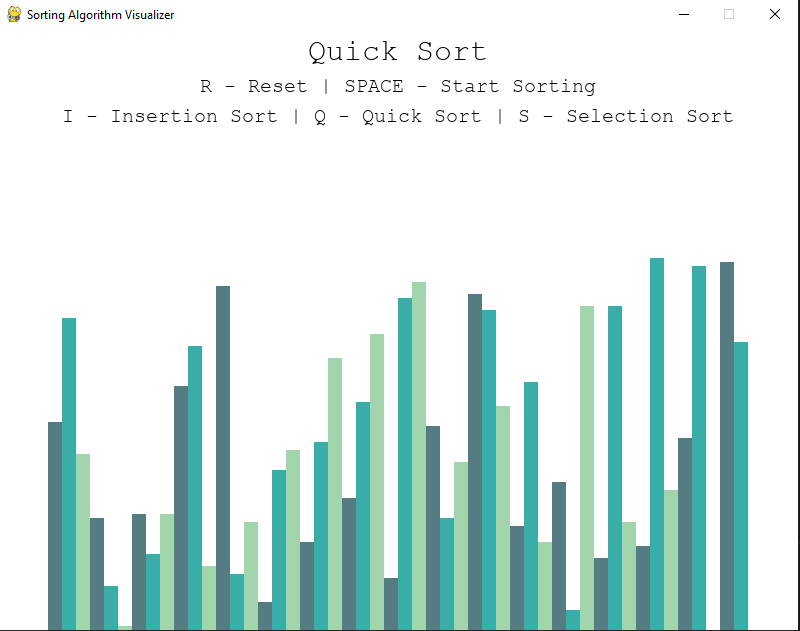
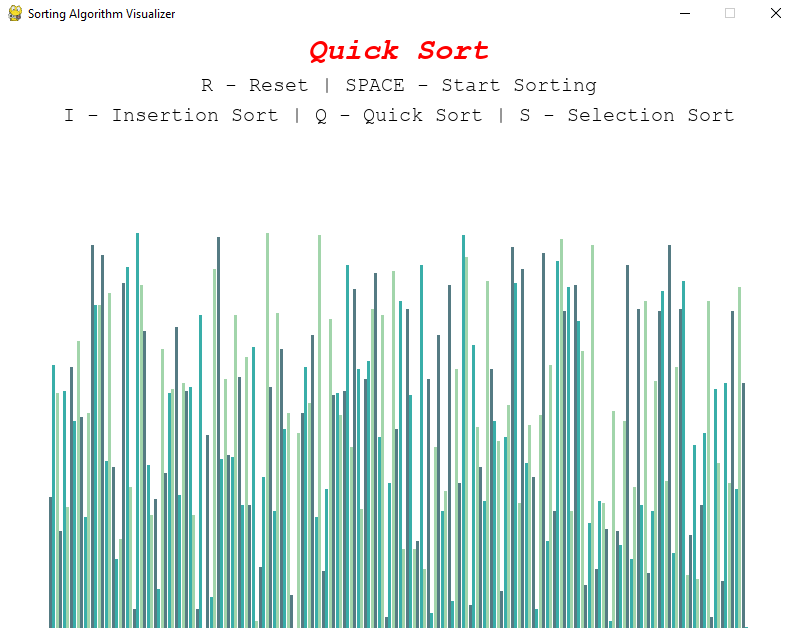
updated visuals

diff --git a/main.py b/main.py
@@ -12,6 +12,7 @@ class DrawInformation:
     WHITE = 255, 255, 255
     GREEN = 0, 255, 0
     RED = 255, 0, 0
+    
     BACKGROUND_COLOR = WHITE
 
     #to be used in drawing bars
@@ -22,7 +23,7 @@ class DrawInformation:
     ]
 
     FONT = pygame.font.SysFont('courier', 20)
-    LARGE_FONT = pygame.font.SysFont('courier', 30)
+    LARGE_FONT = pygame.font.SysFont('courier', 30,True,True)
     SIDE_PAD = 100 #100 pixels in total as padding 
     TOP_PAD = 150 #top padding
 
@@ -60,7 +61,7 @@ class DrawInformation:
 def draw(draw_info, algo_name):
     draw_info.window.fill(draw_info.BACKGROUND_COLOR)
 
-    title = draw_info.LARGE_FONT.render(f"{algo_name}", 1, draw_info.BLACK)
+    title = draw_info.LARGE_FONT.render(f"{algo_name}", 1, draw_info.RED)
     draw_info.window.blit(title, (draw_info.width/2-title.get_width()/2, 5))
 
 
@@ -122,7 +123,7 @@ def partition(arr,l,h,draw_info):
             i = i+1
             arr[i],arr[j] = arr[j],arr[i]
             draw_list(draw_info,{arr[i]:draw_info.GREEN,arr[j]:draw_info.RED}, True)
-            pygame.event.wait(15)
+            pygame.event.wait(10)
   
     arr[i+1],arr[h] = arr[h],arr[i+1]
     return (i+1)
@@ -154,8 +155,7 @@ def quick_sort(draw_info):
         # Set pivot element at its correct position in
         # sorted array
         p = partition( arr, l, h ,draw_info)
-        yield True
-        
+        #yield True
         # If there are elements on left side of pivot,
         # then push left side to stack
         if p-1 > l:
@@ -164,7 +164,7 @@ def quick_sort(draw_info):
             top = top + 1
             stack[top] = p - 1
             draw_list(draw_info,{arr[top-1]:draw_info.GREEN,arr[top]:draw_info.RED}, True)
-            pygame.event.wait(15)
+            #pygame.event.wait(5)
             yield True
         
         # If there are elements on right side of pivot,
@@ -175,7 +175,7 @@ def quick_sort(draw_info):
             top = top + 1
             stack[top] = h
             draw_list(draw_info,{arr[top-1]:draw_info.GREEN,arr[top]:draw_info.RED}, True)
-            pygame.event.wait(15)
+            #pygame.event.wait(5)
             yield True
 
     return arr
@@ -189,15 +189,16 @@ def insertion_sort(draw_info):
 
         while True:
             sort = i>0 and lst[i-1] > current
+            draw_list(draw_info, {i-1:draw_info.GREEN, i:draw_info.RED},True)
+            yield True
 
             if not sort:
                 break
-
+            
             lst[i] = lst[i-1]
             i = i-1
             lst[i] = current
-            draw_list(draw_info, {i-1:draw_info.GREEN, i:draw_info.RED},True)
-            yield True
+            
     return lst
 
 
@@ -210,8 +211,8 @@ def selection_sort(draw_info):
         for j in range(i+1,len(lst)):
             if(lst[j] < lst[min_indx]):
                 min_indx = j
-        draw_list(draw_info, {i:draw_info.GREEN, min_indx:draw_info.RED},True)
-        yield True
+            draw_list(draw_info, {i:draw_info.GREEN, j:draw_info.RED},True)
+            yield True
         temp = lst[min_indx]
         lst[min_indx] = lst[i]
         lst[i]=temp
@@ -224,9 +225,9 @@ def main():
     run = True
     clock = pygame.time.Clock()
 
-    n=50
+    n=200
     min_val = 0
-    max_val = 100
+    max_val = 200
 
     lst = generate_starting_list(n,min_val,max_val)
     draw_info = DrawInformation(800,600,lst)
@@ -266,12 +267,24 @@ def main():
                 sorting = True
                 sorting_algoithm_generator = sorting_algorithm(draw_info)
             elif event.key == pygame.K_q and sorting == False:
+                if(n!=200):
+                    n=200
+                    lst = generate_starting_list(n,min_val,max_val)
+                    draw_info.set_list(lst)
                 sorting_algorithm = quick_sort
                 sorting_algo_name = "Quick Sort"
             elif event.key == pygame.K_i and sorting == False:
+                if(n!=50):
+                    n=50
+                    lst = generate_starting_list(n,min_val,max_val)
+                    draw_info.set_list(lst)
                 sorting_algorithm = insertion_sort
                 sorting_algo_name = "Insertion Sort"
             elif event.key == pygame.K_s and sorting == False:
+                if(n!=50):
+                    n=50
+                    lst = generate_starting_list(n,min_val,max_val)
+                    draw_info.set_list(lst)
                 sorting_algorithm = selection_sort
                 sorting_algo_name = "Selection Sort"
                 
